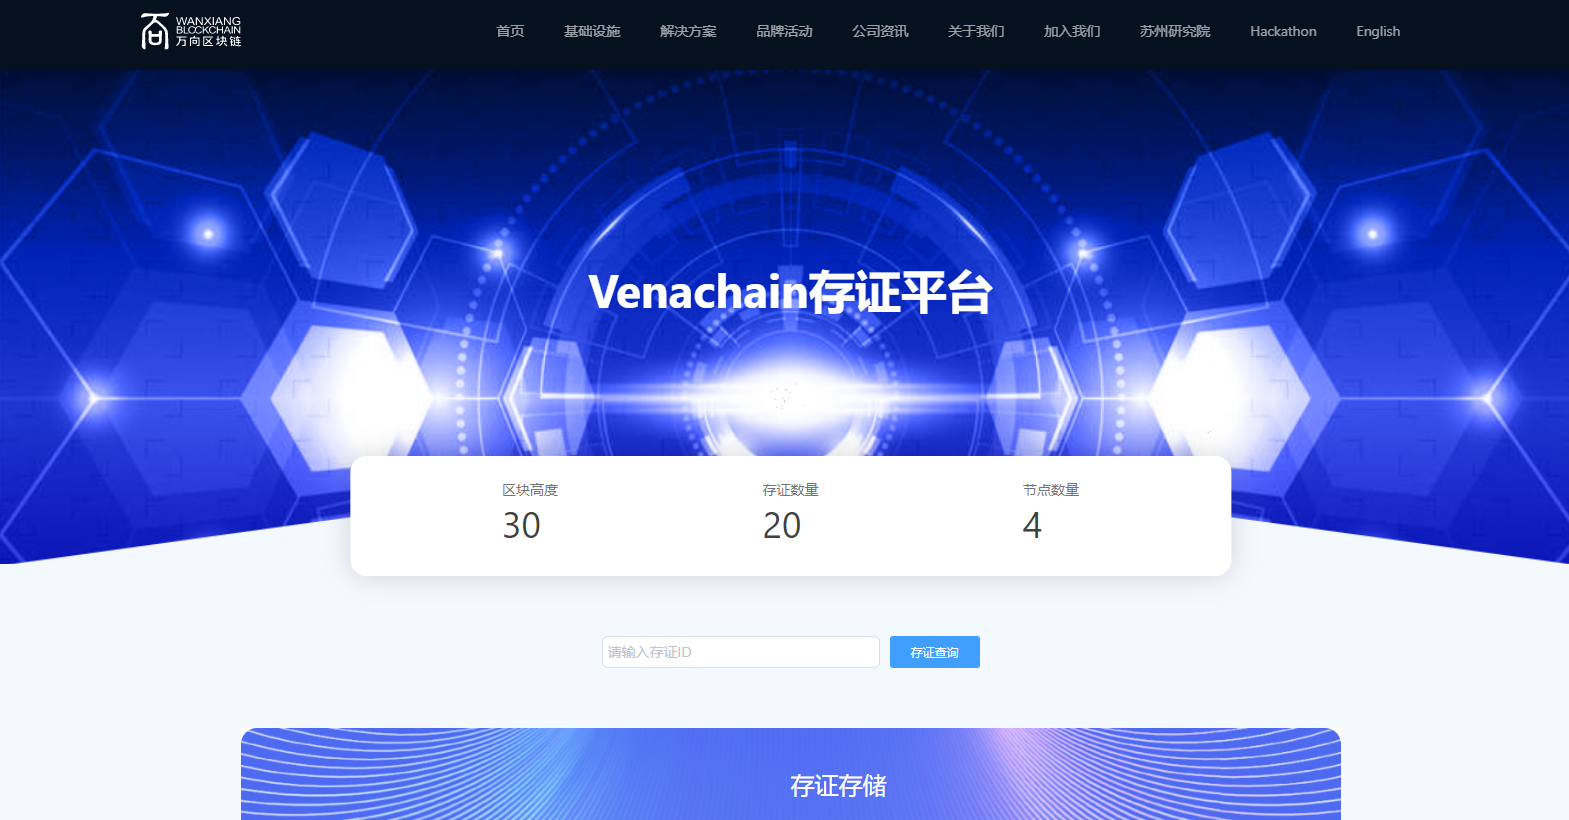
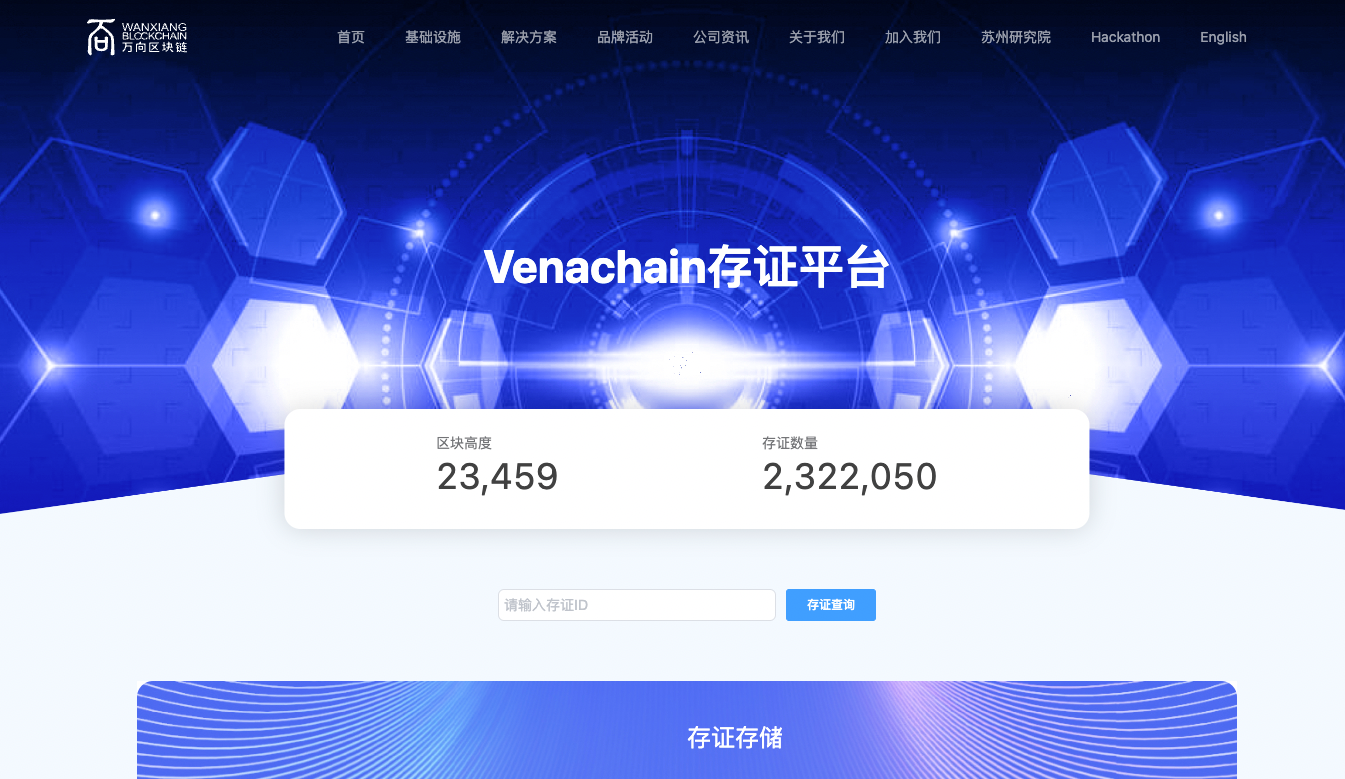
modify venaproof docs

diff --git a/source/documents/5_实用工具/venaproof/VenaPoof开发与测试帮助手册.md b/source/documents/5_实用工具/venaproof/VenaPoof开发与测试帮助手册.md
@@ -1,8 +1,9 @@
 # VenaPoof 开发与测试帮助手册
 
-| **时间**   | **修改人** | **修改事项** | **存证平台版本** | **文档版本** |
-| ---------- | ---------- | ------------ | ---------------- | ------------ |
-| 2022.05.20 | 吴经文     | 初稿         | 0.0.1            | 1.0          |
+| **时间**   | **修改人** | **修改事项**                                                 | **存证平台版本** | **文档版本** |
+| ---------- | ---------- | ------------------------------------------------------------ | ---------------- | ------------ |
+| 2022.05.20 | 吴经文     | 初稿                                                         | 0.0.1            | 1.0          |
+| 2022.07.01 | 吴经文     | 修改venaproof编译方法<br>修改文档表述错误，服务端部署在任意堡垒机开放端口都可以访问接口 | 0.0.1            | 2.0          |
 
 ## 编译VenaProof
 
@@ -10,66 +11,50 @@
 如果想要编译 `venaproof` 可执行文件用于开发调试，可以看以下内容
 ```
 
-### 1. 编译Venachain
+### 获取VenaProof项目
 
-1. 获取项目
+```bash
+git clone https://git-c.i.wxblockchain.com/vena/src/venaproof.git
+```
 
-	```bash
-	git clone https://git-c.i.wxblockchain.com/vena/src/venachain.git
-	```
+```{warning}
+Venachain与Venaproof的项目目录必须在同一个目录下
+```
 
-2. 编译Venachain
+### 编译
 
-	请参考 [Venachain编译](../../6_深入使用指南/Venachain编译.md)
+编译后的二进制文件会生成在 `release/bin/` 目录下
 
-### 2. 编译VenaProof
-
-1. 获取项目
-
-	```bash
-	git clone https://git-c.i.wxblockchain.com/vena/src/venaproof.git
-	```
-
-2. 修改go.mod
-
-	将venachain的目录所在位置填入 `${venachain_path}`
-	```console
-	replace (
-		github.com/Venachain/Venachain => ${venachain_path}
-		github.com/go-interpreter/wagon v0.6.0 => github.com/perlin-network/wagon v0.3.1-0.20180825141017-f8cb99b55a39
-	)
-	```
-
-3. 编译
-
-	编译后的二进制文件会生成在 `release/bin/` 目录下
-
-	```console
-	cd ${venaproof_path}
-	make clean && make
-	```
+```
+cd ${venaproof_path}
+make clean && make
+```
 
 ## 前后端联调测试
 
-### 1. 部署server端
-
-根据文档 [VenaProof安装](./VenaProof安装.md) 将VenaProof安装在堡垒机 `10.230.48.18` ，且暴露的端口必须为 `17017` 。VenaProof项目的测试在该堡垒机上进行。
-
-### 2. 部署web端
+### 部署web端
 
 1. 向项目相关同事获取前端压缩包。
+
 2. 解压压缩包
-3. 启动
 
-	```bash
-	## 进入项目目录
-	cd client-official-website/wxbc-pc
+3. 修改配置
 
-	## 启动项目
-	npm run dev
-	```
+   修改 `client-official-website/wxbc-pc/vue.config.js` 中的proxy，填写venaproof部署的地址
 
-### 3. 访问
+   修改 `client-official-website/wxbc-pc/src/api/base.js`中的base，填写venaproof部署的地址
+
+4. 启动
+
+  ```bash
+  ## 进入项目目录
+  cd client-official-website/wxbc-pc
+  
+  ## 启动项目
+  npm run dev
+  ```
+
+### 访问网页
 
 1. 输入地址
 

diff --git a/source/documents/5_实用工具/venaproof/VenaProof安装.md b/source/documents/5_实用工具/venaproof/VenaProof安装.md
@@ -1,8 +1,9 @@
 # VenaProof 安装
 
-| **时间**   | **修改人** | **修改事项** | **存证平台版本** | **文档版本** |
-| ---------- | ---------- | ------------ | ---------------- | ------------ |
-| 2022.05.20 | 吴经文     | 初稿         | 0.0.1            | 1.0          |
+| **时间**   | **修改人** | **修改事项**                           | **存证平台版本** | **文档版本** |
+| ---------- | ---------- | -------------------------------------- | ---------------- | ------------ |
+| 2022.05.20 | 吴经文     | 初稿                                   | 0.0.1            | 1.0          |
+| 2022.07.01 | 吴经文     | 修改环境要求 <br>修改mongodb安装与配置 | 0.0.2            | 2.0          |
 
 ```{warning}
 仅支持linux
@@ -12,8 +13,8 @@
 
 ### 硬件环境准备
 
-- 主 机：Intel Xeon E5-2650或以上。
-- 内 存：16G或以上。
+- 主 机：Intel(R) Xeon(R) Gold 5220 CPU @ 2.20GHz或以上。
+- 内 存：4GB或以上。
 - 硬 盘：32GB或以上。
 - 图形卡：VGA/DVI。
 
@@ -21,9 +22,9 @@
 
 - OS Linux 64bit
 - Golang 1.14.4 或以上
-- Venachain v1.0.0 或以上
-- MongoDB 4.2.8 或以上
-- VenaProof v0.0.1
+- Venachain v1.1.0 或以上
+- MongoDB 4.2.x 
+- VenaProof v0.0.2
 
 ## 安装步骤
 
@@ -57,10 +58,28 @@
     mkdir -p /usr/local/mongodb/log
     ```
 
-5. 启动
+5. 新建log文件
 
     ```bash
-    mongod -dbpath /usr/local/mongodb/db -logpath /usr/local/mongodb/log --logappend --port 27017 --fork
+    touch /usr/local/mongodb/log/mongodb.log
+    ```
+
+6. 新建Mongodb.conf文件
+
+    文件内容如下：
+
+    ```console
+    port=27017
+    logpath=/usr/local/mongodb/log/mongodb.log
+    dbpath=/usr/local/mongodb/db
+    fork=true
+    logappend=true
+    ```
+
+7. 启动
+
+    ```bash
+    mongod -config /usr/local/mongodb/mongodb.conf
     ```
 
     ```{note}
@@ -88,9 +107,15 @@
         {
             user: "${user_name}",
             pwd: "${password}",
-            roles: [ "readWrite", "${db_name}" ]
+            roles: [ {role: "readWrite", db: "${db_name}"} ]
         }
     );
+    ```
+    
+4. 新建索引
+
+    ```console
+    db.evidence_detail.ensureIndex({"evidenceID":-1})
     ```
 
 ### 3. 部署Venachain
@@ -157,6 +182,10 @@
     ./vpctl.sh start
     ```
 
+    ```{warning}
+    如果venachain中keystore发生变更，不再包含 `${venaproof_path}/release/data/keyfile.account` 的账户，那么需要将 `${venaproof_path}/release/data/keyfile.account` 删除，并重启venaproof。
+    ```
+
 2. 关闭
 
     ```bash
@@ -173,4 +202,8 @@
 
     ```{note}
     清理命令会关闭服务并删除 `data` 目录下的数据，而 `conf` 目录下的 `config.toml` 不会删除，若需要删除请手动操作。
+    ```
+
+    ```{warning}
+    如果venachain数据清除，那么需要清理mongodb数据，并且使用本命令清除venaproof数据。然后才可以重新执行第 `2` 、 `3` 、  `6` 进行部署。
     ```

diff --git a/source/documents/5_实用工具/venaproof/VenaProof使用/VenaProof使用.md b/source/documents/5_实用工具/venaproof/VenaProof使用/VenaProof使用.md
@@ -1,8 +1,9 @@
 # VenaProof 使用
 
-| **时间**   | **修改人** | **修改事项** | **存证平台版本** | **文档版本** |
-| ---------- | ---------- | ------------ | ---------------- | ------------ |
-| 2022.05.20 | 陈赛       | 初稿         | 0.0.1            | 1.0          |
+| **时间**   | **修改人** | **修改事项**               | **存证平台版本** | **文档版本** |
+| ---------- | ---------- | -------------------------- | ---------------- | ------------ |
+| 2022.05.20 | 陈赛       | 初稿                       | 0.0.1            | 1.0          |
+| 2022.07.01 | 陈赛       | 修改主页与存证详情显示内容 | 0.0.2            | 2.0          |
 
 ## 1.进入存证平台
 
@@ -10,7 +11,7 @@
 
 ## 2.存证统计信息
 
-- 区块高度、区块数量、节点数量
+- 区块高度、存证数量
 
 ![avatar](./images/ven2.png) 
 
@@ -26,7 +27,7 @@
 
 ## 4.存证存储
 
-- 输入存证ID（不输入字段生成）；存储内容
+- 输入存证ID（不输入会自动生成）；存储内容
 
 ![avatar](./images/ven5.png)
 
